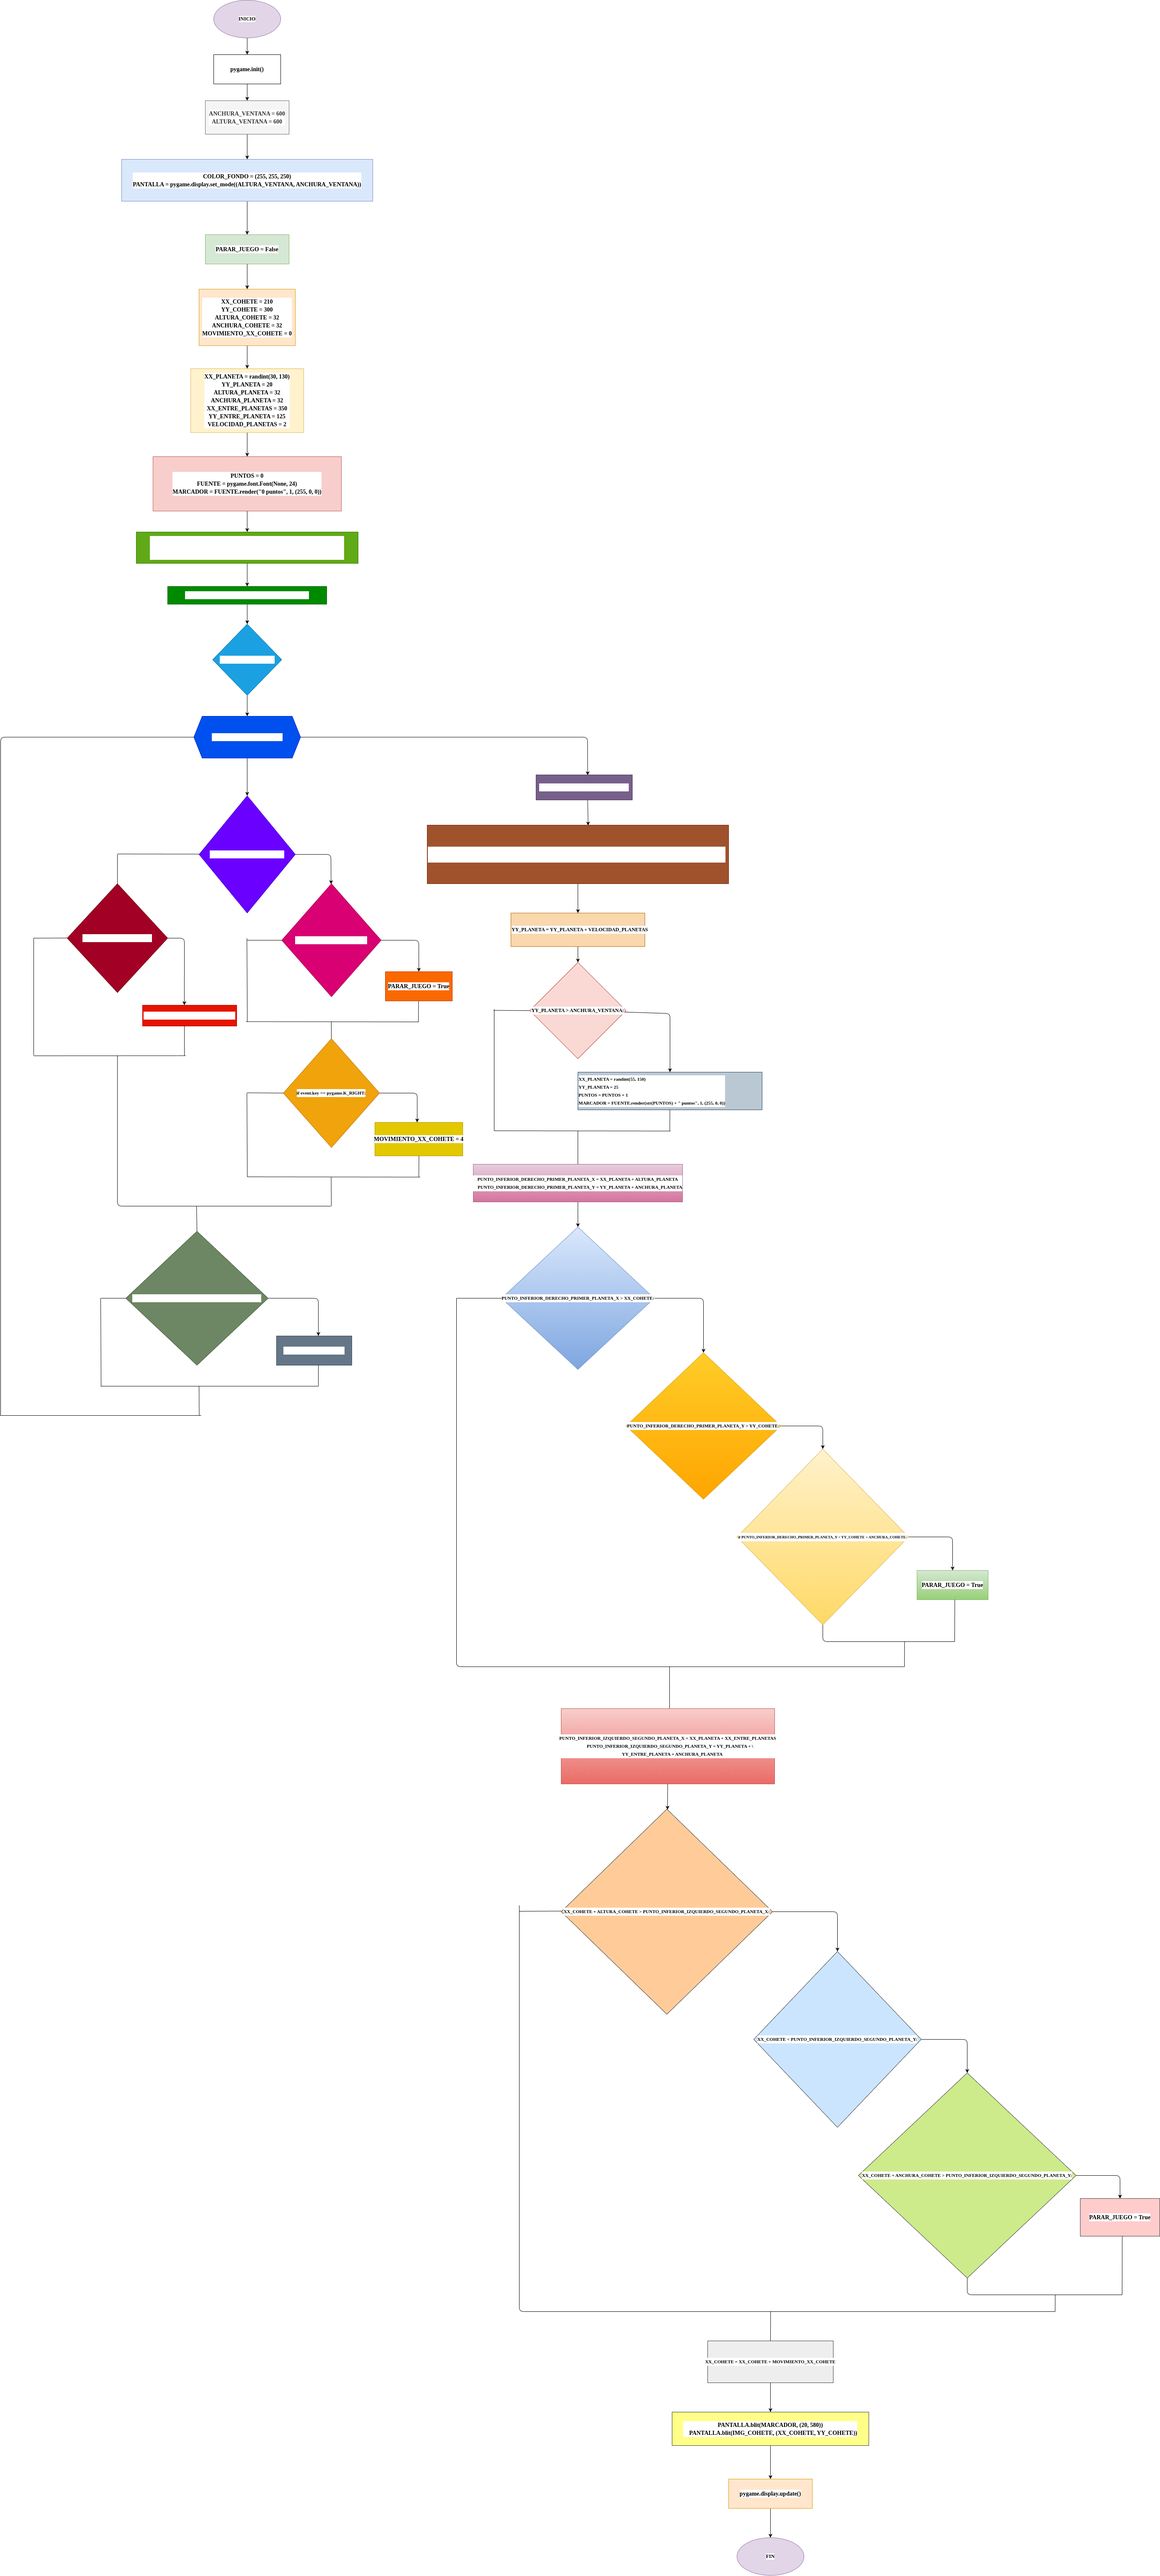
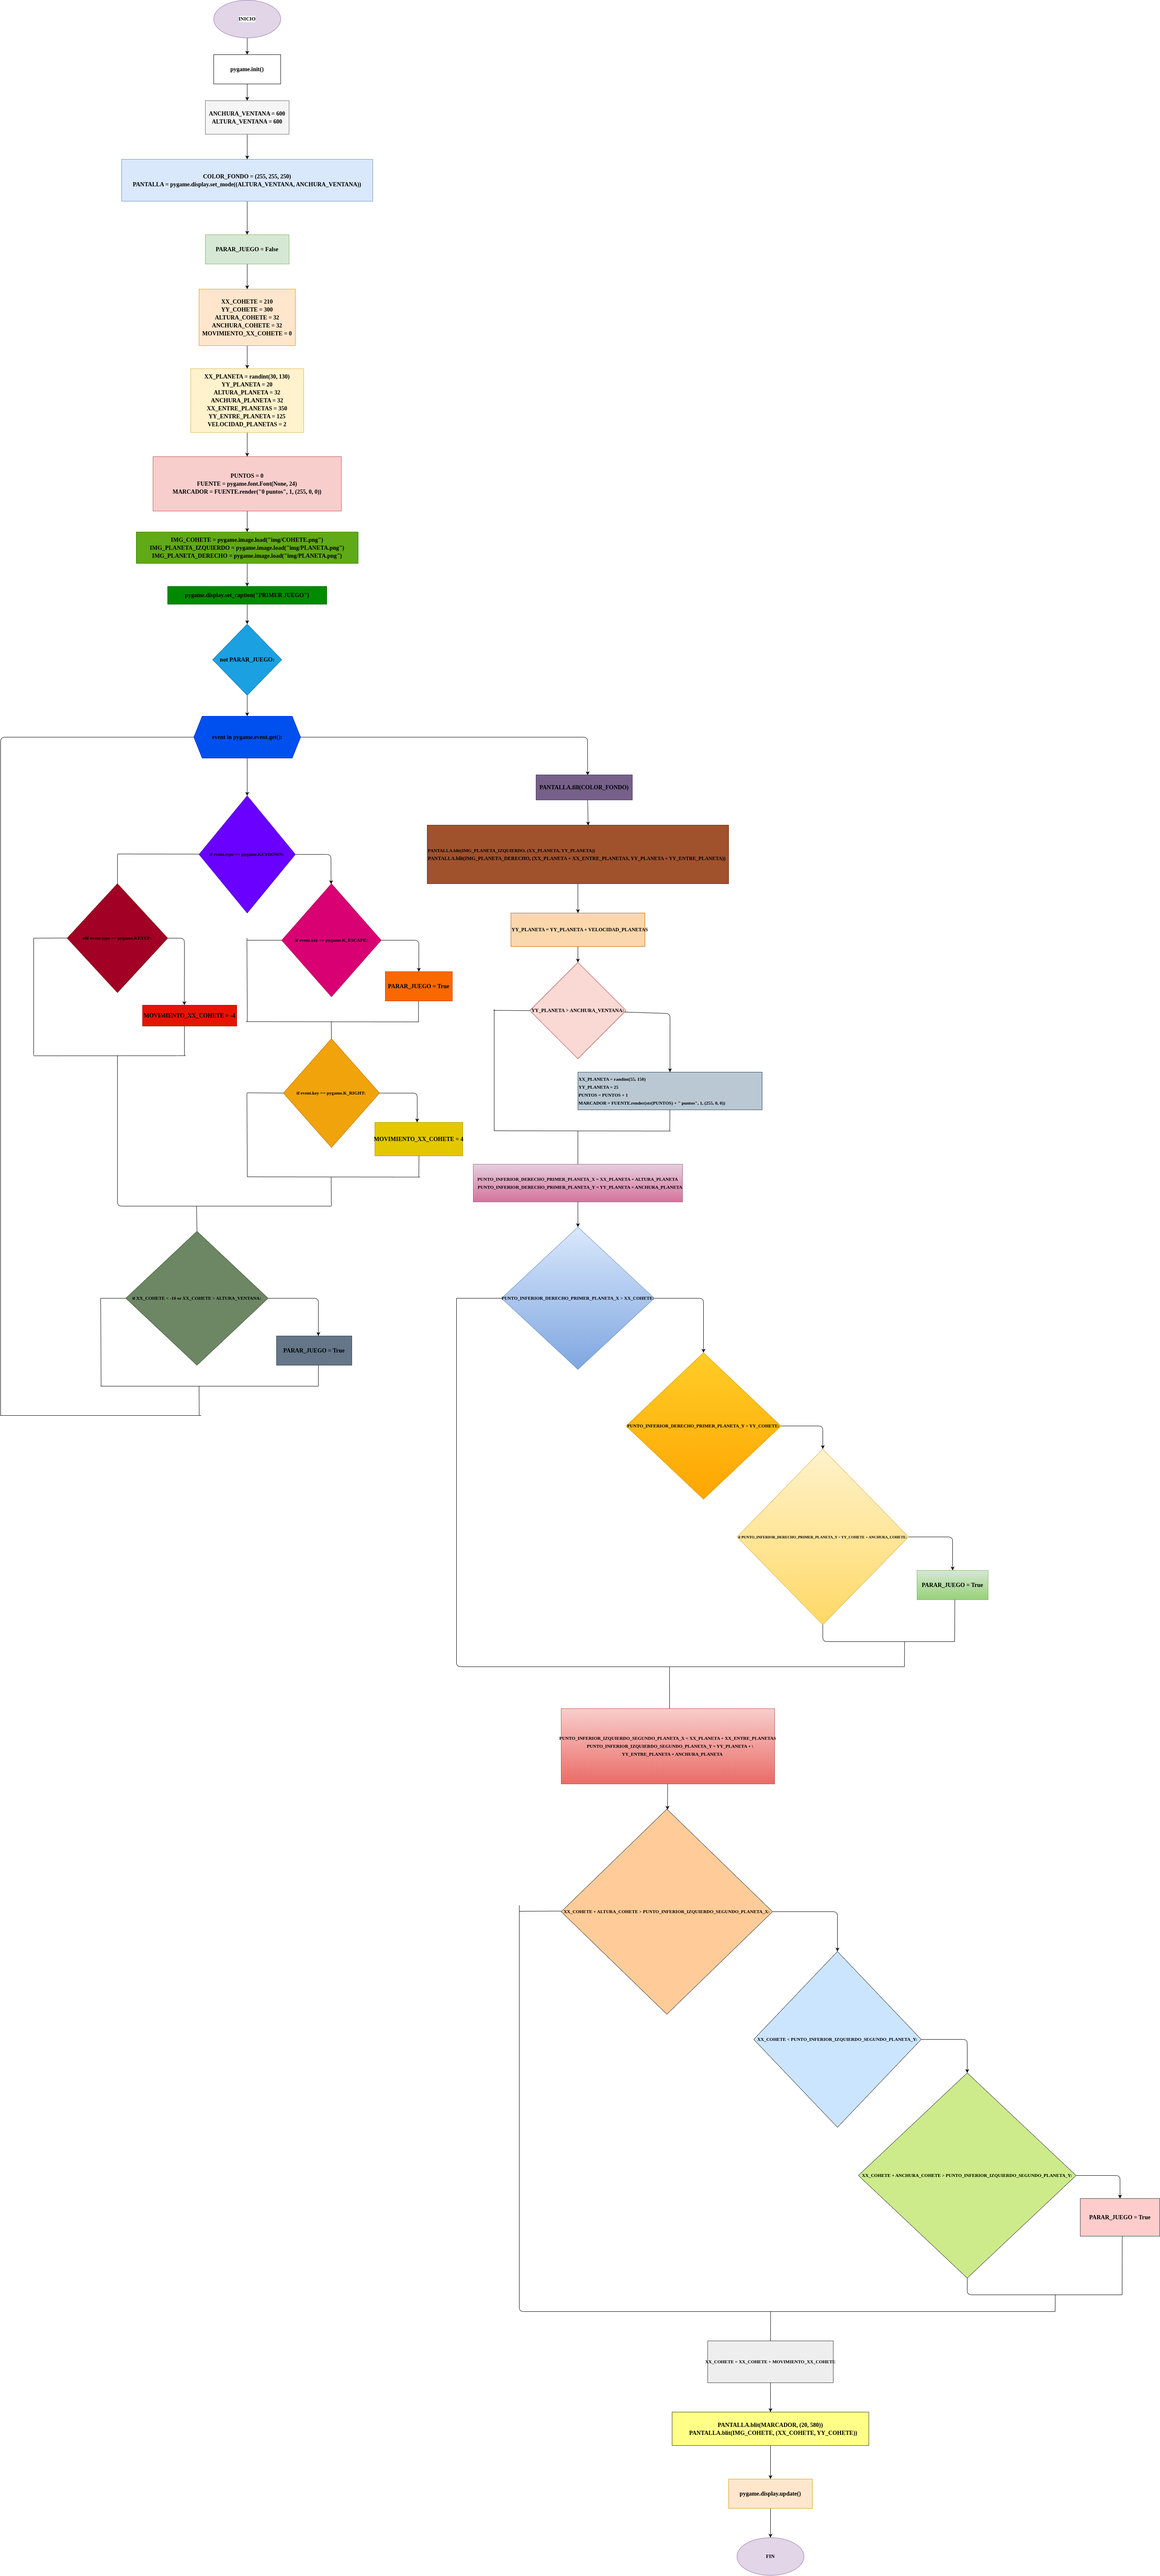
corrección

diff --git a/README.md b/README.md
@@ -62,3 +62,7 @@ Este es un juego simple desarrollado con Python y Pygame, en el que el jugador o
 - ``` XX_COHETE = XX_COHETE + MOVIMIENTO_XX_COHETE, PANTALLA.blit(MARCADOR, (20, 580)), PANTALLA.blit(IMG_COHETE, (XX_COHETE, YY_COHETE))```: Este código actualiza la posición horizontal del cohete (XX_COHETE) sumando la velocidad de movimiento (MOVIMIENTO_XX_COHETE). Esto sugiere que el valor de MOVIMIENTO_XX_COHETE es positivo cuando el cohete se mueve a la derecha y negativo cuando se mueve a la izquierda. Esta línea dibuja el marcador de puntos en la pantalla. Se asume que MARCADOR es una superficie de Pygame que contiene el texto con el puntaje, y se dibuja en la posición (20, 580), lo que coloca el marcador cerca de la parte inferior izquierda de la ventana.
 
 - ```pygame.display.update()```: se da por terminado el juego.
+
+# Diseño
+
+![Diagrama de flujo](diagrama.png "Diagrama de flujo")
